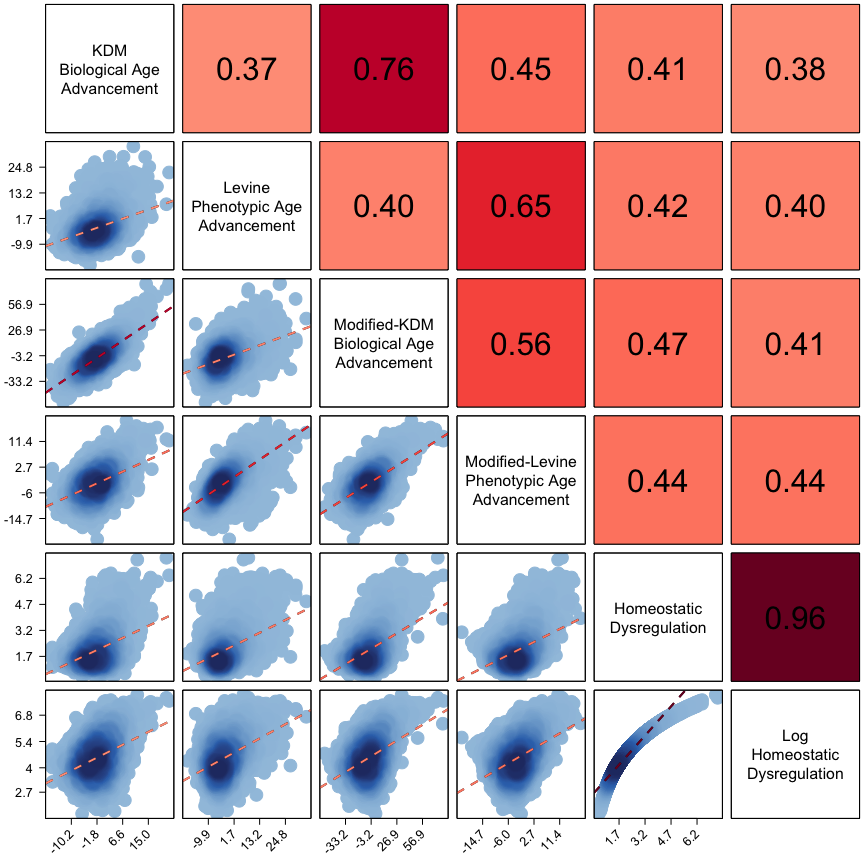
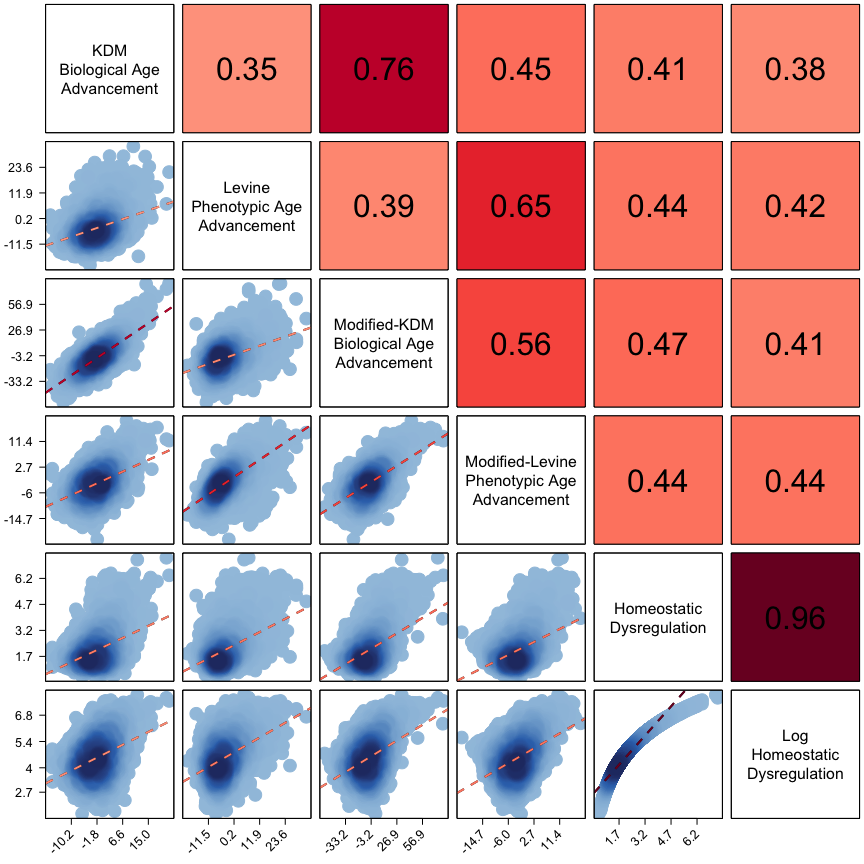
Update PhenoAge constant to 0.090165 and recompute data

diff --git a/README.md b/README.md
@@ -281,7 +281,7 @@ Full Sample
 
 <td style="width: 300px; font-size: .83em; text-align: left;">
 
-1.46 (1.42, 1.51)
+1.47 (1.42, 1.51)
 </td>
 
 <td style="width: 300px; font-size: .83em; text-align: left;">
@@ -377,7 +377,7 @@ Men
 
 <td style="width: 300px; font-size: .83em; text-align: left;">
 
-1.43 (1.37, 1.49)
+1.44 (1.38, 1.5)
 </td>
 
 <td style="width: 300px; font-size: .83em; text-align: left;">
@@ -560,7 +560,7 @@ White
 
 <td style="width: 300px; font-size: .83em; text-align: left;">
 
-1.53 (1.47, 1.6)
+1.54 (1.47, 1.6)
 </td>
 
 <td style="width: 300px; font-size: .83em; text-align: left;">
@@ -647,7 +647,7 @@ Black
 
 <td style="width: 300px; font-size: .83em; text-align: left;">
 
-1.37 (1.28, 1.46)
+1.37 (1.28, 1.47)
 </td>
 
 <td style="width: 300px; font-size: .83em; text-align: left;">
@@ -734,7 +734,7 @@ Other
 
 <td style="width: 300px; font-size: .83em; text-align: left;">
 
-1.37 (1.28, 1.47)
+1.37 (1.28, 1.48)
 </td>
 
 <td style="width: 300px; font-size: .83em; text-align: left;">
@@ -830,7 +830,7 @@ Aged 65 and Younger
 
 <td style="width: 300px; font-size: .83em; border-bottom: 2px solid grey; text-align: left;">
 
-1.6 (1.52, 1.69)
+1.61 (1.52, 1.7)
 </td>
 
 <td style="width: 300px; font-size: .83em; border-bottom: 2px solid grey; text-align: left;">
@@ -1018,7 +1018,7 @@ Full Sample
 
 <td style="width: 600px; font-size: 0.77em; text-align: left;">
 
-0.17 (0.15, 0.18)
+0.17 (0.15, 0.19)
 </td>
 
 <td style="width: 600px; font-size: 0.77em; text-align: left;">
@@ -1570,7 +1570,7 @@ White
 
 <td style="width: 600px; font-size: 0.77em; text-align: left;">
 
-0.24 (0.21, 0.28)
+0.25 (0.21, 0.28)
 </td>
 
 <td style="width: 600px; font-size: 0.77em; text-align: left;">
@@ -1735,7 +1735,7 @@ Black
 
 <td style="width: 600px; font-size: 0.77em; text-align: left;">
 
-0.14 (0.07, 0.2)
+0.14 (0.07, 0.21)
 </td>
 
 <td style="width: 600px; font-size: 0.77em; text-align: left;">
@@ -1996,7 +1996,7 @@ Age 20-40
 
 <td style="width: 600px; font-size: 0.77em; text-align: left;">
 
-0.19 (0.16, 0.21)
+0.19 (0.17, 0.21)
 </td>
 
 <td style="width: 600px; font-size: 0.77em; text-align: left;">
@@ -2239,7 +2239,7 @@ Age 40-60
 
 <td style="width: 600px; font-size: 0.77em; text-align: left;">
 
-0.22 (0.17, 0.26)
+0.22 (0.17, 0.27)
 </td>
 
 <td style="width: 600px; font-size: 0.77em; text-align: left;">
@@ -2365,7 +2365,7 @@ Age 60-80
 
 <td style="width: 600px; font-size: 0.77em; text-align: left;">
 
-0.15 (0.14, 0.17)
+0.16 (0.14, 0.17)
 </td>
 
 <td style="width: 600px; font-size: 0.77em; text-align: left;">
@@ -4170,7 +4170,7 @@ Full Sample
 
 <td style="width: 600px; font-size: 0.69em; text-align: left;">
 
--0.08 (-0.09, -0.06)
+-0.07 (-0.08, -0.06)
 </td>
 
 <td style="width: 600px; font-size: 0.69em; text-align: left;">
@@ -4953,7 +4953,7 @@ Age 20-40
 
 <td style="width: 600px; font-size: 0.69em; text-align: left;">
 
--0.08 (-0.09, -0.07)
+-0.08 (-0.09, -0.06)
 </td>
 
 <td style="width: 600px; font-size: 0.69em; text-align: left;">
@@ -5283,7 +5283,7 @@ Age 60-80
 
 <td style="width: 600px; font-size: 0.69em; border-bottom: 2px solid grey; text-align: left;">
 
--0.14 (-0.17, -0.12)
+-0.14 (-0.16, -0.12)
 </td>
 
 <td style="width: 600px; font-size: 0.69em; border-bottom: 2px solid grey; text-align: left;">
@@ -6636,11 +6636,11 @@ newdata = left_join(CALERIE, hd_data[, c("sampleID", "hd", "hd_log")], by = "sam
 ``` r
 summary(newdata %>% filter(fu==0) %>% select(kdm, phenoage, hd, hd_log)) 
 #>       kdm            phenoage           hd             hd_log     
-#>  Min.   : 9.531   Min.   :11.97   Min.   :0.5029   Min.   :1.541  
-#>  1st Qu.:22.884   1st Qu.:27.41   1st Qu.:1.2687   1st Qu.:3.491  
-#>  Median :28.219   Median :32.99   Median :1.5369   Median :3.948  
-#>  Mean   :29.945   Mean   :32.64   Mean   :1.8475   Mean   :4.102  
-#>  3rd Qu.:35.768   3rd Qu.:38.14   3rd Qu.:2.0968   3rd Qu.:4.608  
-#>  Max.   :59.143   Max.   :50.58   Max.   :8.0333   Max.   :7.892  
+#>  Min.   : 9.531   Min.   :11.97   Min.   :0.4985   Min.   :1.544  
+#>  1st Qu.:22.884   1st Qu.:27.41   1st Qu.:1.2383   1st Qu.:3.428  
+#>  Median :28.219   Median :32.99   Median :1.5068   Median :3.862  
+#>  Mean   :29.945   Mean   :32.64   Mean   :1.8153   Mean   :4.040  
+#>  3rd Qu.:35.768   3rd Qu.:38.14   3rd Qu.:2.0561   3rd Qu.:4.555  
+#>  Max.   :59.143   Max.   :50.58   Max.   :7.9876   Max.   :7.797  
 #>  NA's   :1        NA's   :13      NA's   :13       NA's   :13
 ```
